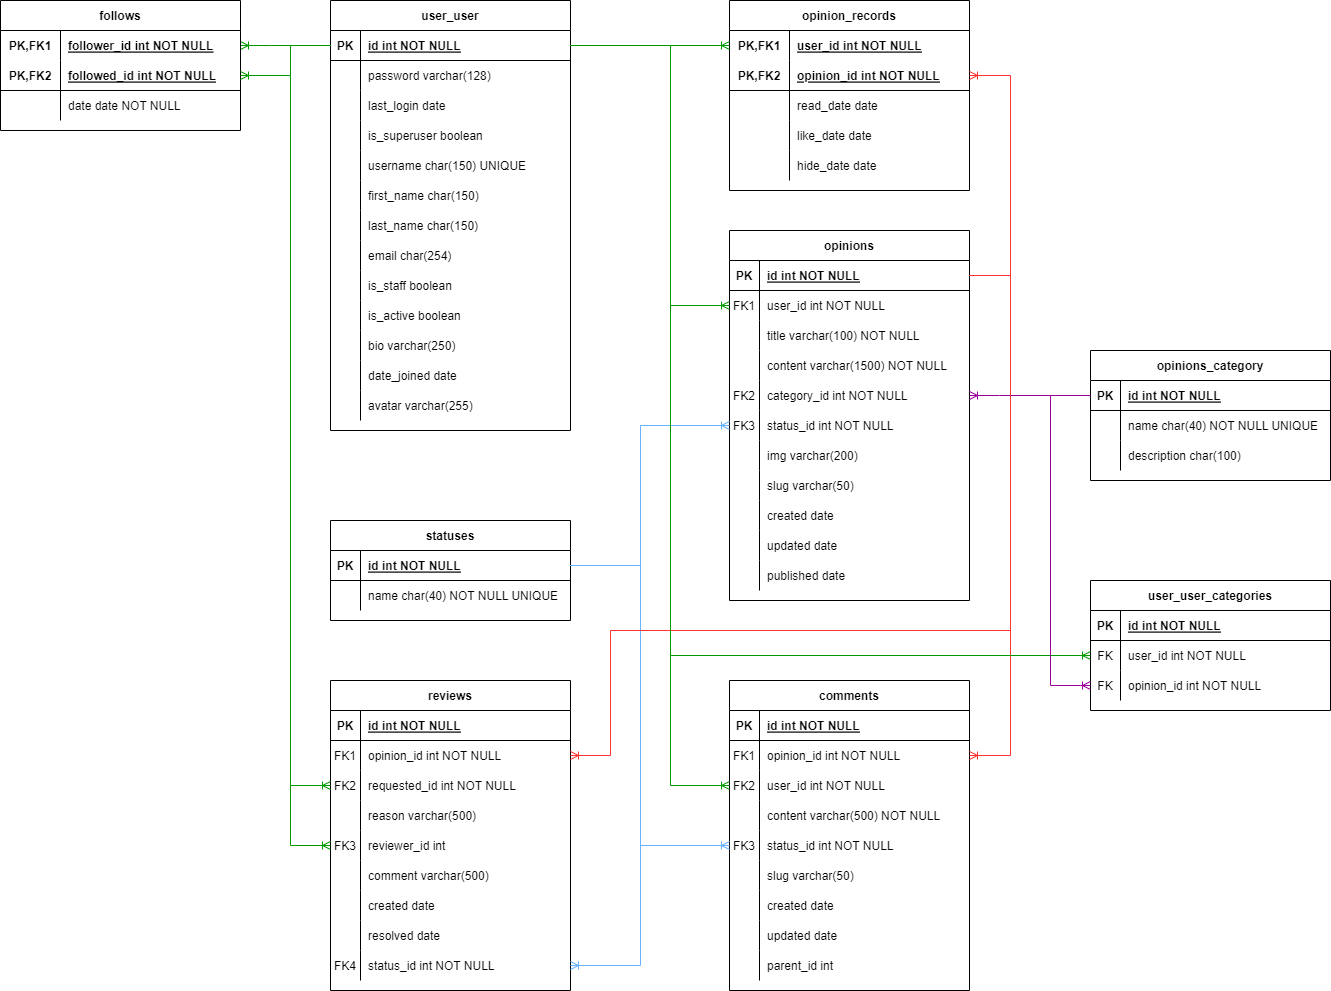
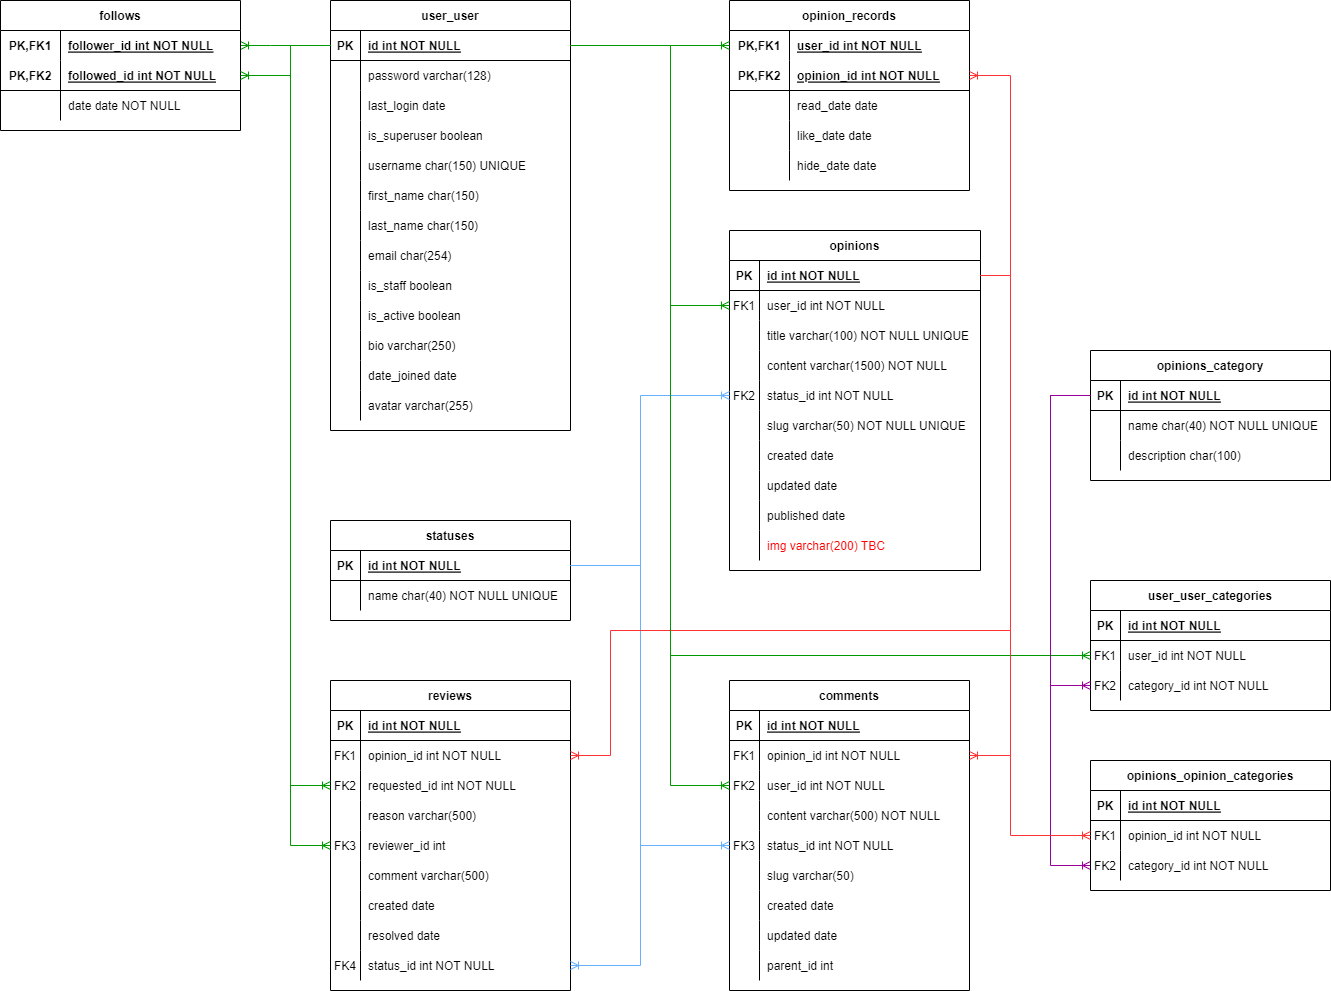
feat: Add status & opinion models, closes #33, closes #34

diff --git a/opinions/models.py b/opinions/models.py
@@ -20,13 +20,14 @@
 #  FROM,OUT OF OR IN CONNECTION WITH THE SOFTWARE OR THE USE OR OTHER
 #  DEALINGS IN THE SOFTWARE.
 #
+from datetime import datetime, MINYEAR, timezone
 
 from django.db import models
 from django.utils.translation import gettext_lazy as _
 
-
-_NAME_FIELD = "name"
-_DESCRIPTION_FIELD = "description"
+from .common import (
+    NAME_FIELD, DESCRIPTION_FIELD, TITLE_FIELD, CONTENT_FIELD
+)
 
 
 class Category(models.Model):
@@ -35,8 +36,8 @@ class Category(models.Model):
     MODEL_NAME = 'Category'
 
     # field names
-    NAME_FIELD = _NAME_FIELD
-    DESCRIPTION_FIELD = _DESCRIPTION_FIELD
+    NAME_FIELD = NAME_FIELD
+    DESCRIPTION_FIELD = DESCRIPTION_FIELD
 
     CATEGORY_ATTRIB_NAME_MAX_LEN: int = 40
     CATEGORY_ATTRIB_DESCRIPTION_MAX_LEN: int = 100
@@ -49,7 +50,69 @@ class Category(models.Model):
         blank=True)
 
     class Meta:
-        ordering = [_NAME_FIELD]
+        ordering = [NAME_FIELD]
 
     def __str__(self):
         return self.name
+
+
+class Status(models.Model):
+    """ Statuses model """
+
+    MODEL_NAME = 'Status'
+
+    # field names
+    NAME_FIELD = NAME_FIELD
+
+    STATUS_ATTRIB_NAME_MAX_LEN: int = 40
+
+    name = models.CharField(_('name'), max_length=STATUS_ATTRIB_NAME_MAX_LEN,
+                            blank=False, unique=True)
+
+    class Meta:
+        ordering = [NAME_FIELD]
+
+    def __str__(self):
+        return self.name
+
+
+class Opinion(models.Model):
+    """ Opinions model """
+
+    MODEL_NAME = 'Opinion'
+
+    # field names
+    TITLE_FIELD = TITLE_FIELD
+    CONTENT_FIELD = CONTENT_FIELD
+
+    OPINION_ATTRIB_TITLE_MAX_LEN: int = 100
+    OPINION_ATTRIB_CONTENT_MAX_LEN: int = 1500
+    OPINION_ATTRIB_SLUG_MAX_LEN: int = 50
+
+    title = models.CharField(
+        _('title'), max_length=OPINION_ATTRIB_TITLE_MAX_LEN, blank=False,
+        unique=True)
+
+    content = models.CharField(
+        _('content'), max_length=OPINION_ATTRIB_CONTENT_MAX_LEN, blank=False)
+
+    categories = models.ManyToManyField(Category)
+
+    status = models.ForeignKey(Status, on_delete=models.CASCADE)
+
+    slug = models.SlugField(
+        _('slug'), max_length=OPINION_ATTRIB_SLUG_MAX_LEN, blank=False,
+        unique=True)
+
+    # TODO is img field required?
+
+    created = models.DateTimeField(auto_now_add=True)
+    updated = models.DateTimeField(auto_now=True)
+    published = models.DateTimeField(
+        default=datetime(MINYEAR, 1, 1, tzinfo=timezone.utc))
+
+    class Meta:
+        ordering = [TITLE_FIELD]
+
+    def __str__(self):
+        return self.title

diff --git a/django_tests/opinions/test_opinion_model.py b/django_tests/opinions/test_opinion_model.py
@@ -1,0 +1,58 @@
+#  MIT License
+#
+#  Copyright (c) 2022 Ian Buttimer
+#
+#  Permission is hereby granted, free of charge, to any person obtaining a copy
+#  of this software and associated documentation files (the "Software"), to
+#  deal in the Software without restriction, including without limitation the
+#  rights to use, copy, modify, merge, publish, distribute, sublicense, and/or
+#  sell copies of the Software, and to permit persons to whom the Software is
+#  furnished to do so, subject to the following conditions:
+#
+#  The above copyright notice and this permission notice shall be included in
+#  all copies or substantial portions of the Software.
+#
+#  THE SOFTWARE IS PROVIDED "AS IS", WITHOUT WARRANTY OF ANY KIND, EXPRESS OR
+#  IMPLIED, INCLUDING BUT NOT LIMITED TO THE WARRANTIES OF MERCHANTABILITY,
+#  FITNESS FOR A PARTICULAR PURPOSE AND NONINFRINGEMENT. IN NO EVENT SHALL THE
+#  AUTHORS OR COPYRIGHT HOLDERS BE LIABLE FOR ANY CLAIM, DAMAGES OR OTHER
+#  LIABILITY, WHETHER IN AN ACTION OF CONTRACT, TORT OR OTHERWISE, ARISING
+#  FROM,OUT OF OR IN CONNECTION WITH THE SOFTWARE OR THE USE OR OTHER
+#  DEALINGS IN THE SOFTWARE.
+#
+import os
+from datetime import datetime, timezone, MINYEAR
+
+import django
+
+from opinions.common import STATUS
+from opinions.models import Opinion, Status
+
+# 'allauth' checks for 'django.contrib.sites', so django must be setup before
+# test
+os.environ.setdefault("ENV_FILE", ".test-env")
+os.environ.setdefault("DJANGO_SETTINGS_MODULE", "soapbox.settings")
+django.setup()
+
+from django.test import TestCase    # noqa
+
+
+class TestOpinionModel(TestCase):
+    """
+    Test opinion
+    https://docs.djangoproject.com/en/4.1/topics/testing/tools/
+    """
+
+    def test_opinion_defaults(self):
+        kwargs = {
+            STATUS: Status.objects.get(name='Draft')
+        }
+        opinion = Opinion.objects.create(**kwargs)
+        self.assertIsNotNone(opinion)
+        self.assertEqual(opinion.title, '')
+        self.assertEqual(opinion.content, '')
+        self.assertEqual(opinion.slug, '')
+        self.assertLess(opinion.created, datetime.now(tz=timezone.utc))
+        self.assertLess(opinion.updated, datetime.now(tz=timezone.utc))
+        self.assertEqual(opinion.published,
+                         datetime(MINYEAR, 1, 1, 0, 0, tzinfo=timezone.utc))

diff --git a/opinions/migrations/0003_status_opinion.py b/opinions/migrations/0003_status_opinion.py
@@ -1,0 +1,54 @@
+# Generated by Django 4.1 on 2022-09-05 10:23
+
+import datetime
+from django.db import migrations, models
+import django.db.models.deletion
+
+
+class Migration(migrations.Migration):
+
+    dependencies = [
+        ('opinions', '0002_add_initial_categories'),
+    ]
+
+    operations = [
+        migrations.CreateModel(
+            name='Status',
+            fields=[
+                ('id', models.BigAutoField(
+                    auto_created=True, primary_key=True, serialize=False,
+                    verbose_name='ID')),
+                ('name', models.CharField(
+                    max_length=40, unique=True, verbose_name='name')),
+            ],
+            options={
+                'ordering': ['name'],
+            },
+        ),
+        migrations.CreateModel(
+            name='Opinion',
+            fields=[
+                ('id', models.BigAutoField(
+                    auto_created=True, primary_key=True, serialize=False,
+                    verbose_name='ID')),
+                ('title', models.CharField(
+                    max_length=100, unique=True, verbose_name='title')),
+                ('content', models.CharField(
+                    max_length=1500, verbose_name='content')),
+                ('slug', models.SlugField(unique=True, verbose_name='slug')),
+                ('created', models.DateTimeField(auto_now_add=True)),
+                ('updated', models.DateTimeField(auto_now=True)),
+                ('published', models.DateTimeField(
+                    default=datetime.datetime(
+                        1, 1, 1, 0, 0, tzinfo=datetime.timezone.utc))),
+                ('categories', models.ManyToManyField(
+                    to='opinions.category')),
+                ('status', models.ForeignKey(
+                    on_delete=django.db.models.deletion.CASCADE,
+                    to='opinions.status')),
+            ],
+            options={
+                'ordering': ['title'],
+            },
+        ),
+    ]

diff --git a/django_tests/opinions/test_status_model.py b/django_tests/opinions/test_status_model.py
@@ -20,24 +20,28 @@
 #  FROM,OUT OF OR IN CONNECTION WITH THE SOFTWARE OR THE USE OR OTHER
 #  DEALINGS IN THE SOFTWARE.
 #
-from django.contrib import admin
+import os
 
-from .models import Category, Status, Opinion
+import django
 
+from opinions.models import Status
 
-@admin.register(Category)
-class CategoryAdmin(admin.ModelAdmin):
-    """ Class representing the Category model in the admin interface """
-    pass
+# 'allauth' checks for 'django.contrib.sites', so django must be setup before
+# test
+os.environ.setdefault("ENV_FILE", ".test-env")
+os.environ.setdefault("DJANGO_SETTINGS_MODULE", "soapbox.settings")
+django.setup()
 
-
-@admin.register(Status)
-class CategoryAdmin(admin.ModelAdmin):
-    """ Class representing the Status model in the admin interface """
-    pass
+from django.test import TestCase    # noqa
 
 
-@admin.register(Opinion)
-class CategoryAdmin(admin.ModelAdmin):
-    """ Class representing the Opinion model in the admin interface """
-    pass
+class TestStatusModel(TestCase):
+    """
+    Test status
+    https://docs.djangoproject.com/en/4.1/topics/testing/tools/
+    """
+
+    def test_status_defaults(self):
+        status = Status.objects.create()
+        self.assertIsNotNone(status)
+        self.assertEqual(status.name, '')

diff --git a/opinions/common.py b/opinions/common.py
@@ -20,24 +20,14 @@
 #  FROM,OUT OF OR IN CONNECTION WITH THE SOFTWARE OR THE USE OR OTHER
 #  DEALINGS IN THE SOFTWARE.
 #
-from django.contrib import admin
+NAME_FIELD = "name"
+DESCRIPTION_FIELD = "description"
 
-from .models import Category, Status, Opinion
-
-
-@admin.register(Category)
-class CategoryAdmin(admin.ModelAdmin):
-    """ Class representing the Category model in the admin interface """
-    pass
-
-
-@admin.register(Status)
-class CategoryAdmin(admin.ModelAdmin):
-    """ Class representing the Status model in the admin interface """
-    pass
-
-
-@admin.register(Opinion)
-class CategoryAdmin(admin.ModelAdmin):
-    """ Class representing the Opinion model in the admin interface """
-    pass
+TITLE_FIELD = "title"
+CONTENT_FIELD = "content"
+CATEGORIES = 'categories'
+STATUS = 'status'
+SLUG = 'slug'
+CREATED = 'created'
+UPDATED = 'updated'
+PUBLISHED = 'published'

diff --git a/opinions/migrations/0004_add_statuses.py b/opinions/migrations/0004_add_statuses.py
@@ -1,0 +1,19 @@
+# Generated by Django 4.1 on 2022-09-05 08:52
+
+from django.db import migrations
+
+
+class Migration(migrations.Migration):
+
+    dependencies = [
+        ('opinions', '0003_status_opinion'),
+    ]
+
+    operations = [
+        migrations.RunSQL(
+            [("INSERT INTO opinions_status (name) VALUES (%s);", [name])])
+        for name in [
+            'Draft', 'Published', 'Withdrawn',
+            'Pending Review', 'Under Review', 'Approved', 'Rejected'
+        ]
+    ]
